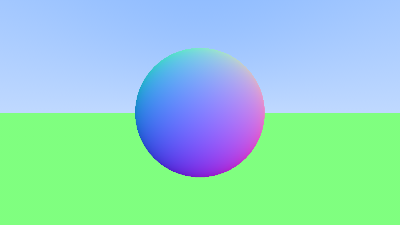
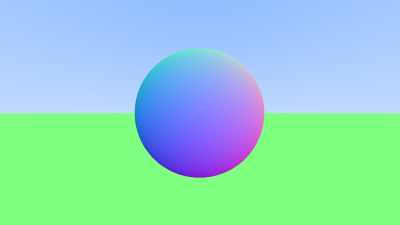
Use current time as seed for rng

diff --git a/Raytracing.cpp b/Raytracing.cpp
@@ -1,4 +1,5 @@
 #include <algorithm>
+#include <ctime>
 
 #include "Raytracing.h"
 #include "Filters.h"
@@ -9,6 +10,8 @@ bool Image::PrintToConsole = false;
 unsigned int LinearFeedbackShift::Seed = 64;
 
 Raytracing::Raytracing() {
+	std::time_t current_time = time(0);
+	LinearFeedbackShift::Seed = static_cast<unsigned int>(current_time);
 }
 
 bool Raytracing::Run() {
